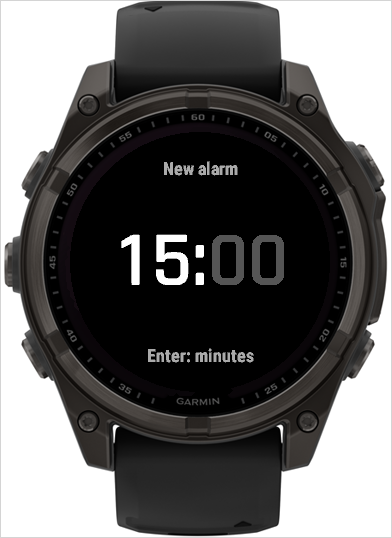
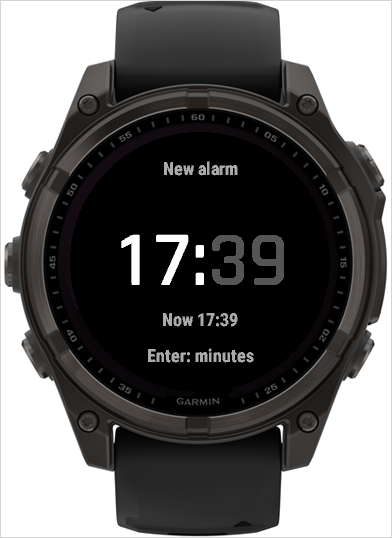
Stop a ringing alarm when the app opens, start the new-alarm entry at the current time
Opening the app while an alarm rings now sends the dismiss itself and shows Alarm stopped; Start goes on to the menu. The glance still only reports that an alarm rings. The time entry for a new alarm starts at the current hour and minute, and both entries show the current time underneath.

diff --git a/docs/usage.md b/docs/usage.md
@@ -12,13 +12,13 @@ From the glance list: the glance shows the next alarm (or that one rings), and S
 
 When the app opens it asks the server what is going on:
 
-- **An alarm is ringing:** the screen shows its time and name. Start stops every ringing alarm and goes on to the menu.
+- **An alarm is ringing:** opening the app stops every ringing alarm by itself. The screen shows its time and name, "Stopping..." and then "Alarm stopped"; Start goes on to the menu. If stopping fails, the screen says why and Start tries again. The glance only shows that an alarm rings; it never stops it.
 - **Otherwise** the menu: *Weather* (first, selected) and *Alarm*. Start opens the screen you chose.
 
 Back leaves a screen; Back on the first one exits the app.
 
 <p align="center">
-  <img src="images/ringing.png" alt="A ringing alarm at 14:39 with the hint Enter: stop" width="30%">
+  <img src="images/ringing.png" alt="The screen after a ringing alarm was stopped: Alarm stopped, 14:39, Alarm, with the hint Enter: menu" width="30%">
   <img src="images/home.png" alt="The menu with Weather selected and Alarm below it" width="30%">
 </p>
 
@@ -52,11 +52,11 @@ The Alarm screen lists *+ New* first, then the armed alarms, soonest first, each
 | time entry | Start | from hours to minutes, then save |
 | time entry | Back | from minutes to hours, then cancel |
 
-An alarm has no name and rings once, at the next time the clock shows the chosen hour and minute. The time entry starts at the next full hour for a new alarm and at the alarm's own time for a change. After saving, the list is read from the server again and the saved alarm is selected, so the list always shows what the server holds, including alarms made on other devices.
+An alarm has no name and rings once, at the next time the clock shows the chosen hour and minute. The time entry starts at the current time for a new alarm and at the alarm's own time for a change, and shows the current time underneath while you pick. Setting a new alarm to the minute it is now means tomorrow. After saving, the list is read from the server again and the saved alarm is selected, so the list always shows what the server holds, including alarms made on other devices.
 
 <p align="center">
   <img src="images/alarms.png" alt="The alarm list with + New above two alarms, one selected, and the hint Hold Up: delete" width="30%">
-  <img src="images/new-alarm.png" alt="The time entry for a new alarm showing 15:00 with the hours marked" width="30%">
+  <img src="images/new-alarm.png" alt="The time entry for a new alarm showing 15:00, the current time 15:00 underneath and the hours marked" width="30%">
 </p>
 
 ## When something is wrong

diff --git a/README.md b/README.md
@@ -13,7 +13,7 @@ A Garmin watch app for your PAI Cloud server: see whether it will rain, and set,
 [![CI](https://github.com/frederikberg/pai-garmin/actions/workflows/ci.yml/badge.svg)](https://github.com/frederikberg/pai-garmin/actions/workflows/ci.yml)
 [![License: MIT](https://img.shields.io/badge/License-MIT-yellow.svg)](https://opensource.org/licenses/MIT)
 
-Open it from the glance list. If an alarm rings, one press stops it. Otherwise a small menu opens on the weather (the chance of rain now and later, in two rows); the alarms are one entry below: pick an hour and a minute, press Start, done. What you set on the watch shows up on your phone and in the web app, and the other way round.
+Open it from the glance list. If an alarm rings, opening the app stops it. Otherwise a small menu opens on the weather (the chance of rain now and later, in two rows); the alarms are one entry below: pick an hour and a minute, press Start, done. What you set on the watch shows up on your phone and in the web app, and the other way round.
 
 <p align="center">
   <img src="docs/images/overview.png" alt="The watch app: the weather, a ringing alarm, the alarm list and the time entry" width="100%">
@@ -21,7 +21,7 @@ Open it from the glance list. If an alarm rings, one press stops it. Otherwise a
 
 ## Why
 
-- **One press to stop.** An alarm that is ringing is the first thing the app shows, and Start stops all of them, so the phone stops pushing too.
+- **Opening it stops the alarm.** An alarm that is ringing is stopped the moment the app opens, with no press, so the phone stops pushing too; the screen says it was stopped.
 - **Built for buttons.** Every step works with the physical buttons alone; the time entry is hours, then minutes, then save.
 - **Your server, not a cloud account.** The app talks only to the PAI Cloud server you enter in its settings.
 

diff --git a/CHANGELOG.md b/CHANGELOG.md
@@ -6,7 +6,7 @@ All notable changes are documented here. The format follows [Keep a Changelog](h
 
 ### Added
 
-- The Alarm sub-app: create, edit and delete one-off alarms from the watch, and stop a ringing alarm with one press.
+- The Alarm sub-app: create, edit and delete one-off alarms from the watch, and stop a ringing alarm by opening the app. The time entry for a new alarm starts at the current time and shows it while you pick.
 - The Weather sub-app: the chance of rain in the next hour and the next twelve, coloured by verdict, with place and location age. Start refreshes.
 - A home menu with Weather and Alarm.
 - A glance that shows the next alarm, or that one rings.
